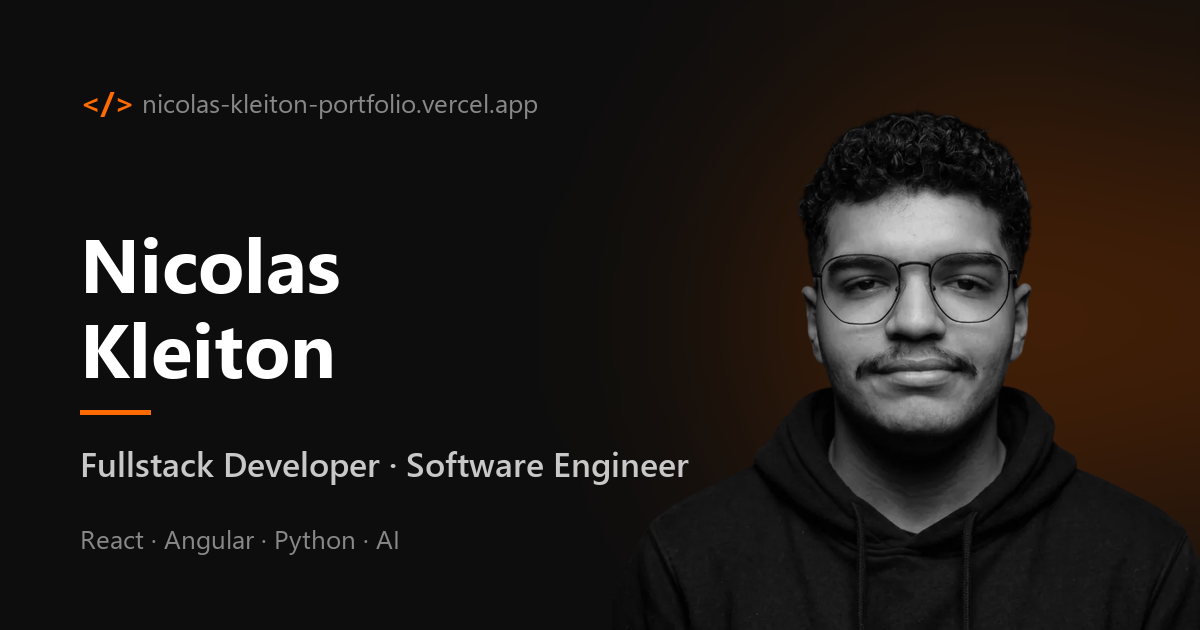
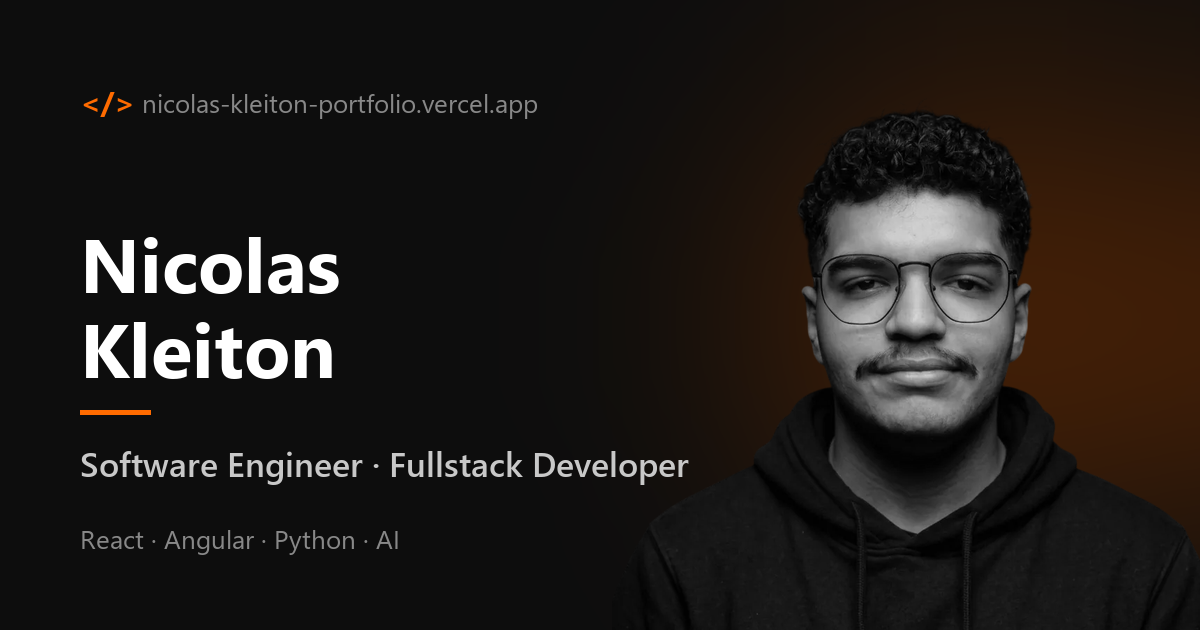
feat: use Software Engineer as primary job title
Align the portfolio with the LinkedIn title. "Fullstack" is kept as a
secondary descriptor (description, bio and hero typewriter) since it is
still a common search term for recruiters.

- Update page title, meta/Open Graph/Twitter tags and JSON-LD jobTitle
- Rename the About heading to Software Engineer
- Show Software Engineer first in the hero typewriter
- Regenerate the social preview image with the new order

Changed region(s): [[0.0617, 0.6937, 0.555, 0.7841]]

diff --git a/src/app/services/translation.service.ts b/src/app/services/translation.service.ts
@@ -14,8 +14,8 @@ export class TranslationService {
     pt: {
       meta: {
         htmlLang: 'pt-BR',
-        title: 'Nicolas Kleiton | Desenvolvedor Fullstack',
-        description: 'Portfólio de Nicolas Kleiton, Desenvolvedor Fullstack e Engenheiro de Software. Interfaces com React e Angular, backends em Python e soluções com IA.'
+        title: 'Nicolas Kleiton | Engenheiro de Software',
+        description: 'Portfólio de Nicolas Kleiton, Engenheiro de Software com atuação fullstack. Interfaces com React e Angular, backends em Python e soluções com IA.'
       },
       navbar: {
         home: 'Início',
@@ -30,12 +30,12 @@ export class TranslationService {
       hero: {
         greeting: '👋, meu nome é Nicolas e',
         imA: 'EU SOU',
-        roles: ['DESENVOLVEDOR FULLSTACK', 'ENGENHEIRO DE SOFTWARE'],
-        heading: 'Nicolas Kleiton, Desenvolvedor Fullstack e Engenheiro de Software'
+        roles: ['ENGENHEIRO DE SOFTWARE', 'DESENVOLVEDOR FULLSTACK'],
+        heading: 'Nicolas Kleiton, Engenheiro de Software e Desenvolvedor Fullstack'
       },
       about: {
         subtitle: 'QUEM SOU EU',
-        title: 'Desenvolvedor Fullstack',
+        title: 'Engenheiro de Software',
         bio: 'Estudante de Ciência da Computação na <strong>Universidade Federal da Paraíba (UFPB)</strong> e Engenheiro de Software no <strong>CEBRASPE</strong> e <strong>TRIL LAB</strong>. Atuo em todo o ciclo de vida de desenvolvimento, da validação de requisitos à arquitetura de sistemas complexos. Como <strong>Desenvolvedor Fullstack</strong>, construo interfaces de alta performance com <strong>React</strong> e backends escaláveis em <strong>Python</strong>, aproveitando <strong>modelos de IA</strong> para transformar demandas desafiadoras em soluções automatizadas e de alta eficiência.',
         eduTitle: 'EDUCAÇÃO',
         eduHighlight: 'Bacharelado em Ciência da Computação',
@@ -88,8 +88,8 @@ export class TranslationService {
     en: {
       meta: {
         htmlLang: 'en',
-        title: 'Nicolas Kleiton | Fullstack Developer',
-        description: 'Portfolio of Nicolas Kleiton, Fullstack Developer and Software Engineer. Interfaces with React and Angular, Python backends and AI-powered solutions.'
+        title: 'Nicolas Kleiton | Software Engineer',
+        description: 'Portfolio of Nicolas Kleiton, Software Engineer working across the full stack. Interfaces with React and Angular, Python backends and AI-powered solutions.'
       },
       navbar: {
         home: 'Home',
@@ -104,12 +104,12 @@ export class TranslationService {
       hero: {
         greeting: '👋, my name is Nicolas and',
         imA: "I'M A",
-        roles: ['FULLSTACK DEVELOPER', 'SOFTWARE ENGINEER'],
-        heading: 'Nicolas Kleiton, Fullstack Developer and Software Engineer'
+        roles: ['SOFTWARE ENGINEER', 'FULLSTACK DEVELOPER'],
+        heading: 'Nicolas Kleiton, Software Engineer and Fullstack Developer'
       },
       about: {
         subtitle: 'WHO I AM',
-        title: 'Fullstack Developer',
+        title: 'Software Engineer',
         bio: 'Computer Science student at <strong>Federal University of Paraíba (UFPB)</strong> and Software Engineer at <strong>CEBRASPE</strong> and <strong>TRIL LAB</strong>. I operate across the full development lifecycle—from requirement validation to the architecture of complex systems. As a <strong>Fullstack Developer</strong>, I build high-performance interfaces with <strong>React</strong> and scalable backends in <strong>Python</strong>, leveraging <strong>AI models</strong> to transform challenging demands into automated, high-efficiency solutions.',
         eduTitle: 'EDUCATION',
         eduHighlight: 'B.S. in Computer Science',

diff --git a/src/index.html b/src/index.html
@@ -2,10 +2,10 @@
 <html lang="pt-BR">
 <head>
   <meta charset="utf-8">
-  <title>Nicolas Kleiton | Desenvolvedor Fullstack</title>
+  <title>Nicolas Kleiton | Engenheiro de Software</title>
   <base href="/">
   <meta name="viewport" content="width=device-width, initial-scale=1">
-  <meta name="description" content="Portfólio de Nicolas Kleiton, Desenvolvedor Fullstack e Engenheiro de Software. Interfaces com React e Angular, backends em Python e soluções com IA.">
+  <meta name="description" content="Portfólio de Nicolas Kleiton, Engenheiro de Software com atuação fullstack. Interfaces com React e Angular, backends em Python e soluções com IA.">
   <meta name="author" content="Nicolas Kleiton">
   <meta name="theme-color" content="#FAF9F6">
   <link rel="canonical" href="https://nicolas-kleiton-portfolio.vercel.app/">
@@ -17,19 +17,19 @@
   <meta property="og:type" content="website">
   <meta property="og:site_name" content="Nicolas Kleiton">
   <meta property="og:url" content="https://nicolas-kleiton-portfolio.vercel.app/">
-  <meta property="og:title" content="Nicolas Kleiton | Desenvolvedor Fullstack">
-  <meta property="og:description" content="Desenvolvedor Fullstack e Engenheiro de Software. Interfaces com React e Angular, backends em Python e soluções com IA.">
+  <meta property="og:title" content="Nicolas Kleiton | Engenheiro de Software">
+  <meta property="og:description" content="Engenheiro de Software com atuação fullstack. Interfaces com React e Angular, backends em Python e soluções com IA.">
   <meta property="og:image" content="https://nicolas-kleiton-portfolio.vercel.app/og-image.png">
   <meta property="og:image:width" content="1200">
   <meta property="og:image:height" content="630">
-  <meta property="og:image:alt" content="Nicolas Kleiton, Fullstack Developer e Software Engineer">
+  <meta property="og:image:alt" content="Nicolas Kleiton, Engenheiro de Software e Desenvolvedor Fullstack">
   <meta property="og:locale" content="pt_BR">
   <meta property="og:locale:alternate" content="en_US">
 
   <!-- Twitter / X -->
   <meta name="twitter:card" content="summary_large_image">
-  <meta name="twitter:title" content="Nicolas Kleiton | Desenvolvedor Fullstack">
-  <meta name="twitter:description" content="Desenvolvedor Fullstack e Engenheiro de Software. Interfaces com React e Angular, backends em Python e soluções com IA.">
+  <meta name="twitter:title" content="Nicolas Kleiton | Engenheiro de Software">
+  <meta name="twitter:description" content="Engenheiro de Software com atuação fullstack. Interfaces com React e Angular, backends em Python e soluções com IA.">
   <meta name="twitter:image" content="https://nicolas-kleiton-portfolio.vercel.app/og-image.png">
 
   <script type="application/ld+json">
@@ -39,7 +39,7 @@
     "name": "Nicolas Kleiton",
     "url": "https://nicolas-kleiton-portfolio.vercel.app/",
     "image": "https://nicolas-kleiton-portfolio.vercel.app/about/foto_about.webp",
-    "jobTitle": "Fullstack Developer",
+    "jobTitle": "Software Engineer",
     "email": "mailto:inicolaskleiton@gmail.com",
     "alumniOf": {
       "@type": "CollegeOrUniversity",

diff --git a/src/app/services/translation.service.spec.ts b/src/app/services/translation.service.spec.ts
@@ -13,9 +13,9 @@ describe('TranslationService', () => {
 
   it('should sync html lang, title and description with the default language', () => {
     expect(document.documentElement.lang).toBe('pt-BR');
-    expect(TestBed.inject(Title).getTitle()).toBe('Nicolas Kleiton | Desenvolvedor Fullstack');
+    expect(TestBed.inject(Title).getTitle()).toBe('Nicolas Kleiton | Engenheiro de Software');
     expect(document.querySelector('meta[name="description"]')?.getAttribute('content'))
-      .toContain('Desenvolvedor Fullstack');
+      .toContain('Engenheiro de Software');
   });
 
   it('should update document metadata when the language changes', () => {
@@ -23,8 +23,8 @@ describe('TranslationService', () => {
     TestBed.tick();
 
     expect(document.documentElement.lang).toBe('en');
-    expect(TestBed.inject(Title).getTitle()).toBe('Nicolas Kleiton | Fullstack Developer');
+    expect(TestBed.inject(Title).getTitle()).toBe('Nicolas Kleiton | Software Engineer');
     expect(document.querySelector('meta[name="description"]')?.getAttribute('content'))
-      .toContain('Fullstack Developer');
+      .toContain('Software Engineer');
   });
 });

diff --git a/src/app/components/hero/hero.spec.ts b/src/app/components/hero/hero.spec.ts
@@ -28,6 +28,6 @@ describe('HeroComponent', () => {
   });
 
   it('should start typing the first role', () => {
-    expect(component.displayText()).toBe('D');
+    expect(component.displayText()).toBe('E');
   });
 });
